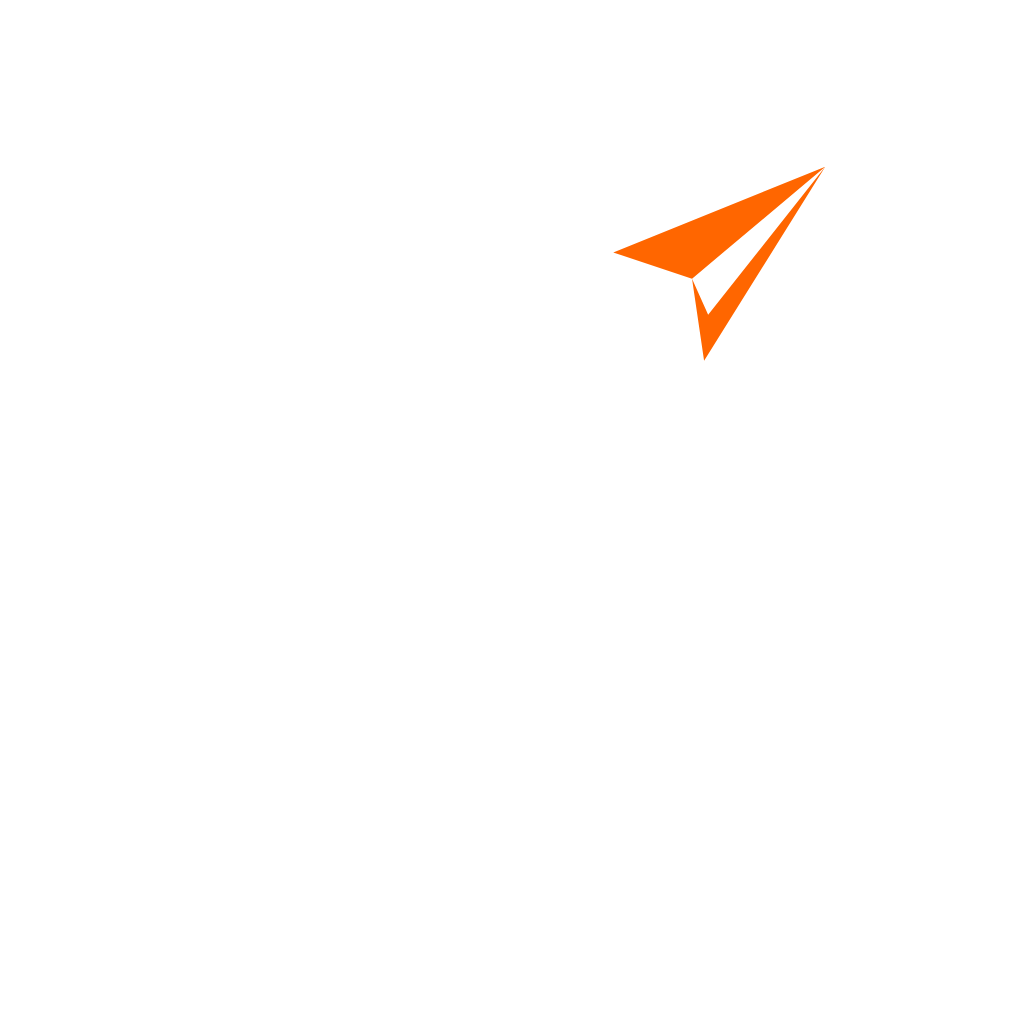
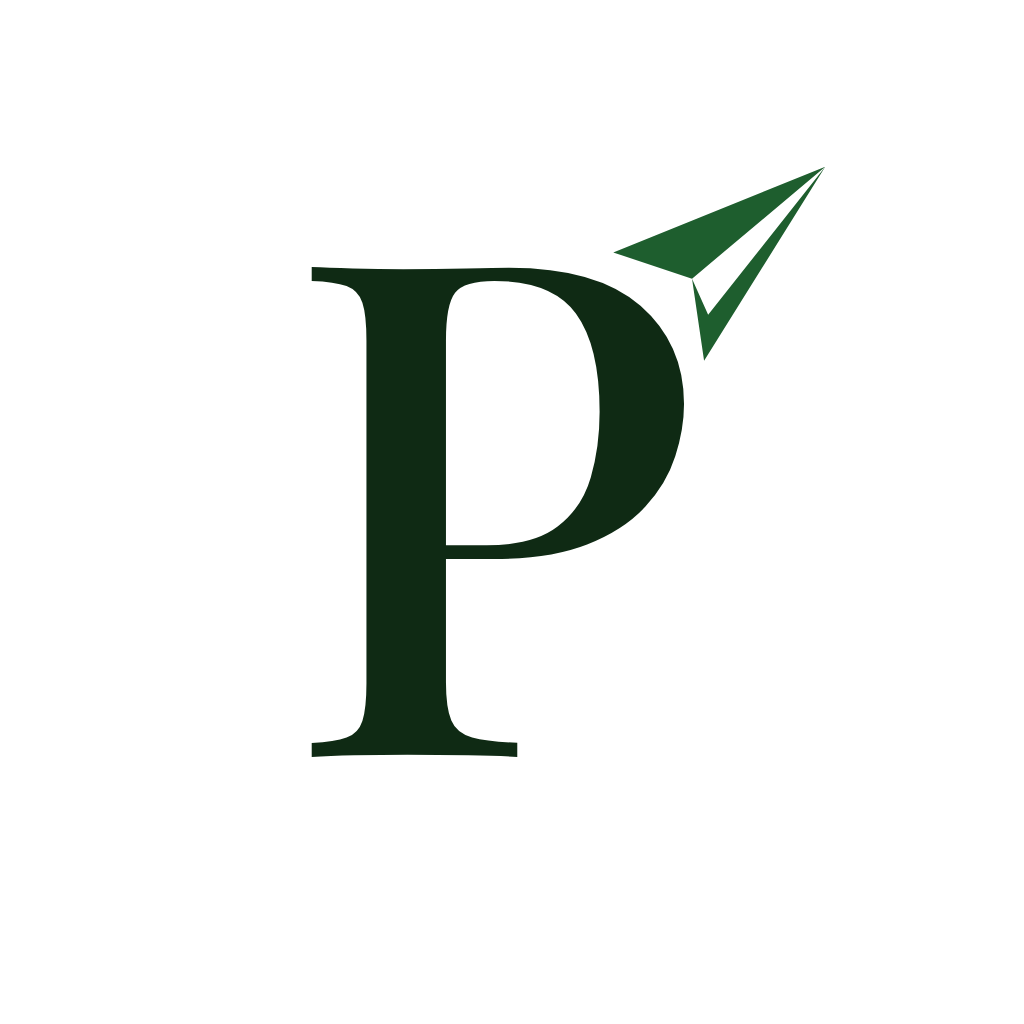
Plazo Pro : icône d'app vert citron (P et avion vert foncé)
Sources SVG et PNG régénérées (brand/app), ressources Android du flavor pro
via flutter_launcher_icons, fond adaptatif #A3E635.

Claude-Session: https://claude.ai/code/session_012FzNPuRPbrourFcqtQaMsX

Changed region(s): [[0.2812, 0.1562, 0.8125, 0.75]]

diff --git a/brand/app/tools/build_svg.py b/brand/app/tools/build_svg.py
@@ -25,6 +25,9 @@ DARK = "#2c1a0e"     # the dark neutral of the app (no purple since T-A, 03/10/2
 PEACH = "#f0a36b"   # the app's highlight colour (unused in the logo since O-A)
 ORANGE = "#FF6600"  # the plane, inspired by easyJet's orange (choice O-A, 03/10/2026)
 WHITE = "#ffffff"
+LIME = "#A3E635"      # Plazo Pro, direction C-B (05/10/2026): the icon's full bleed
+LIME_INK = "#0F2A14"  # the P on the lime
+GREEN = "#1E5E2E"     # the plane on the lime
 
 # Geometry (viewBox units). The symbol is a 100 x 100 square, radius 22 % of the side.
 S = 100
@@ -166,13 +169,13 @@ def main():
         # glyphs are drawn at 92 % here to land in the inner ~66 % of the 108 dp layer.
         "android-foreground.svg": svg(S, S,
             symbol("none", WHITE, DARK, x=S * 0.04, y=S * 0.04, rounded=False, scale=0.92), NAME),
-        # "Plazo Pro" app icon (A-B, 04/10/2026): the same mark, inverted — dark brown full bleed,
-        # white P, orange plane — so the two apps tell apart on a home screen.
+        # "Plazo Pro" app icon (C-B, 05/10/2026): the same mark on the pro's lime — dark-green P and
+        # plane — so the two apps tell apart on a home screen (dark brown with white P until then).
         "icon-maskable-pro.svg": svg(S, S,
-            f'<rect width="{S}" height="{S}" fill="{DARK}"/>\n'
-            + symbol("none", WHITE, ORANGE, x=S * 0.1, y=S * 0.1, rounded=False, scale=0.8), NAME + " Pro"),
+            f'<rect width="{S}" height="{S}" fill="{LIME}"/>\n'
+            + symbol("none", LIME_INK, GREEN, x=S * 0.1, y=S * 0.1, rounded=False, scale=0.8), NAME + " Pro"),
         "android-foreground-pro.svg": svg(S, S,
-            symbol("none", WHITE, ORANGE, x=S * 0.04, y=S * 0.04, rounded=False, scale=0.92), NAME + " Pro"),
+            symbol("none", LIME_INK, GREEN, x=S * 0.04, y=S * 0.04, rounded=False, scale=0.92), NAME + " Pro"),
         # Social card 1200 x 630: the dark logo on prune.
         "social-card.svg": svg(1200, 630,
             f'<rect width="1200" height="630" fill="{ORANGE}"/>\n'

diff --git a/CLAUDE.md b/CLAUDE.md
@@ -134,7 +134,7 @@ Plazo reprend la stack et les conventions des dépôts `lovenest-backend`, `love
   parcours bien séparés, puis deux points d'entrée (flavors). **Décision du 04/10/2026 : app pro complète, équivalente
   à l'espace pro web** (A-B : deux apps « Plazo » et « Plazo Pro » sur un seul projet ; N-A : quatre onglets
   Aujourd'hui · Réservations · Parking · Plus), livrée par étapes : 1 réservations (fait), 2 flavors et onglets (fait : `--flavor pro --dart-define=APP_FLAVOR=pro`,
-  `ProShellPage` à quatre onglets sous `/pro`, icône Pro brun foncé ; iOS : second schéma Xcode à créer),
+  `ProShellPage` à quatre onglets sous `/pro`, icône Pro vert citron (P et avion vert foncé, C-B 05/10/2026) ; iOS : second schéma Xcode à créer),
   **R-C « Poste du jour » (04/10/2026)** : chaque membre choisit son poste (gérant, accueil, chauffeur, voiturier) parmi ceux
   que son rôle couvre (`allowedPosts` dans `domain/roles.ts`, `Staff.post/postSetAt`, `PATCH /internal/staff/me/post`) ; les quatre
   onglets suivent le poste (`core/helpers/posts.dart` : chauffeur Navette · Arrivées · Retours · Plus, voiturier Parking ·

diff --git a/mobile/README.md b/mobile/README.md
@@ -179,7 +179,7 @@ version web, « Payer » ouvre la page Stripe Checkout.
 
 - **Plazo** (voyageurs) : flavor Android `traveller`, `--dart-define=APP_FLAVOR=traveller` (défaut), id `com.benfordtech.parking_app`.
 - **Plazo Pro** (personnel, direction B de l'espace pro web : noir, jaune, angles vifs, Archivo Narrow + JetBrains Mono ; `AppColors` / `AppRadius` / `AppFonts` suivent le flavor) : flavor Android `pro`, `--dart-define=APP_FLAVOR=pro`, id `com.benfordtech.parking_app.pro`,
-  icône brun foncé (`assets/brand/app-icon-pro*.png`, `dart run flutter_launcher_icons -f flutter_launcher_icons-pro.yaml`).
+  icône vert citron, P et avion vert foncé (C-B, 05/10/2026 ; `assets/brand/app-icon-pro*.png`, `dart run flutter_launcher_icons -f flutter_launcher_icons-pro.yaml`).
   Elle s'ouvre sur ses quatre onglets (`ProShellPage` : Aujourd'hui · Réservations · Parking · Plus) et n'embarque aucun
   écran voyageur (décision du 04/10/2026 : les routes voyageur et les App Links `/ma-reservation` n'existent que dans le
   flavor `traveller`, `android/app/src/traveller/AndroidManifest.xml`).
